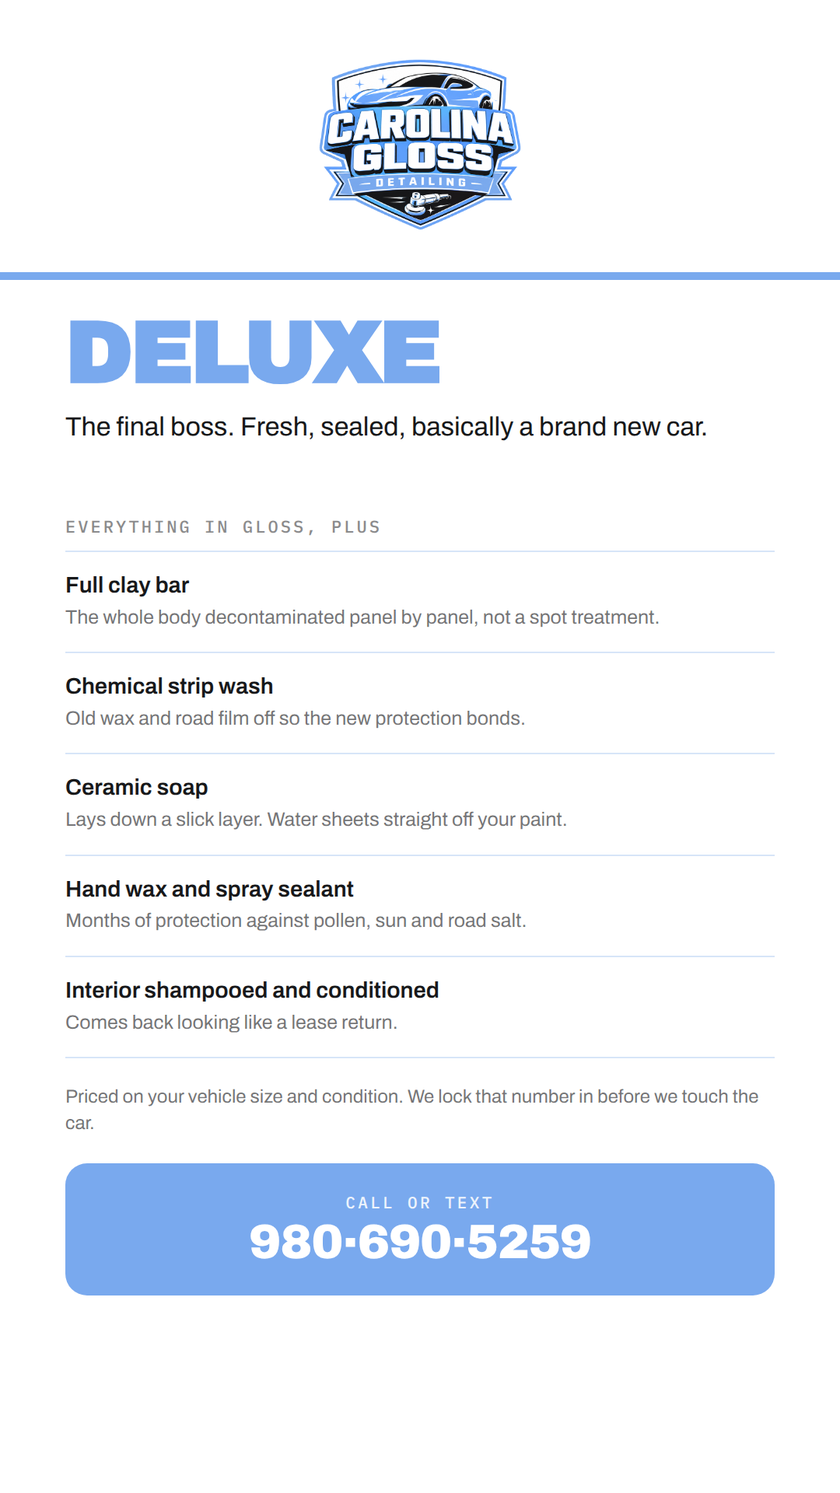
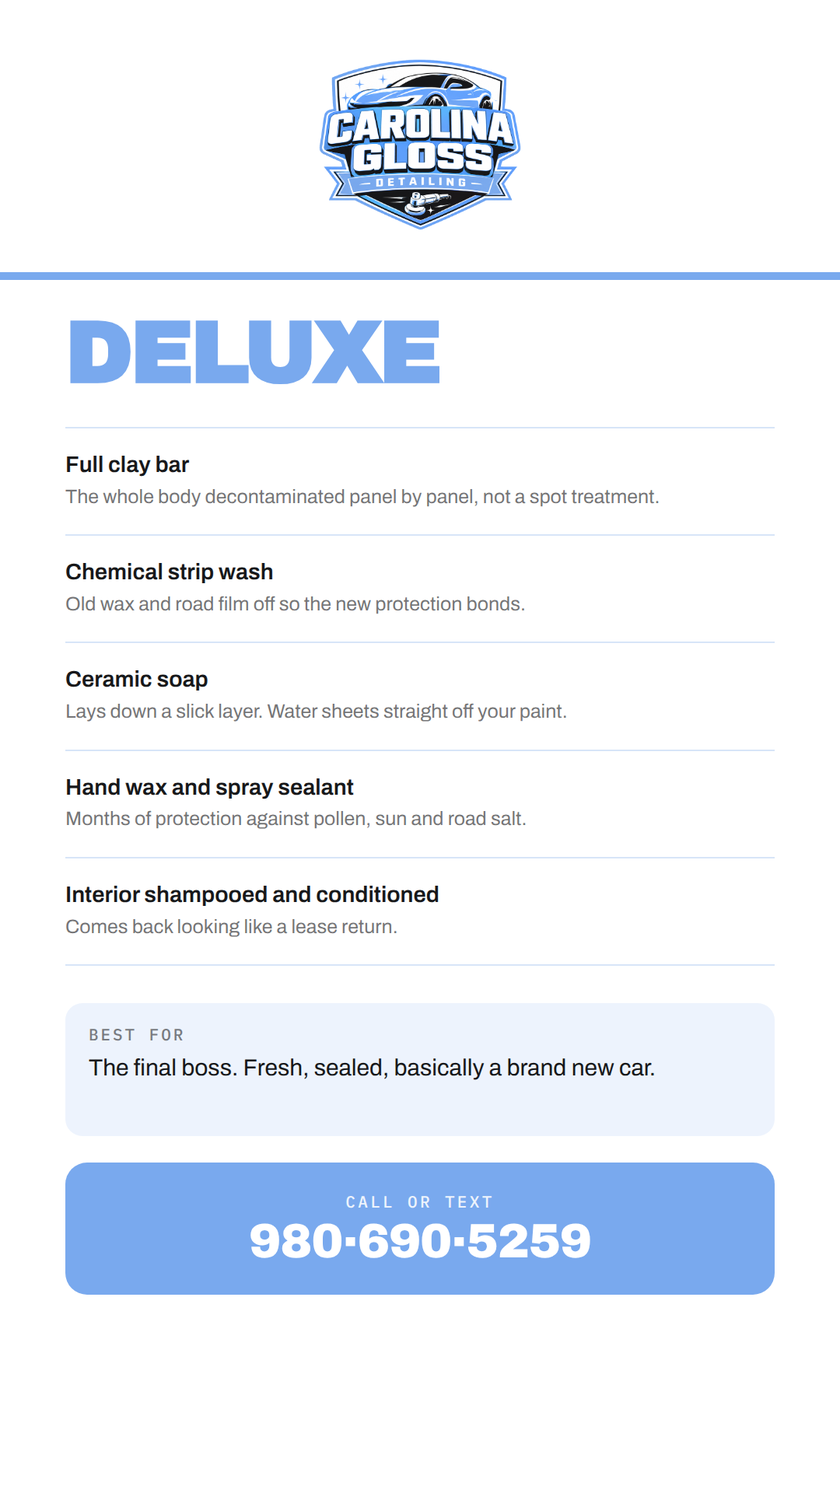
Strip the package frames back to name, list, card, call
Reverts moving the hook line to the top: it goes back in the tinted Best For
card below the rows, where it was working. The description line and the tier
ladder header come off with it, and the pricing line goes too.

Each frame is now the package name straight into the five rows, the card, and
the phone number. Row padding and the gaps opened up to absorb the space the
three dropped blocks left behind, and the card reserves two lines so Gloss
still lines up with the other two.

Claude-Session: https://claude.ai/code/session_016b3V5EjCTmSZMCSHy3XdSF

diff --git a/design/story-highlights/Story Highlights - Services.dc.html b/design/story-highlights/Story Highlights - Services.dc.html
@@ -31,10 +31,11 @@
       <div style="flex:0 0 auto;height:10px;background:#79A9EE;"></div>
       <div style="flex:1 1 auto;padding:44px 84px 0;box-sizing:border-box;display:flex;flex-direction:column;">
         <h1 style="margin:0;font-family:'Archivo Black',Helvetica,sans-serif;font-size:112px;line-height:0.9;letter-spacing:-0.03em;color:#79A9EE;text-transform:uppercase;">Standard</h1>
-        <p style="margin:22px 0 0;font:400 34px/1.34 'Archivo',sans-serif;color:#17181A;min-height:92px;text-wrap:pretty;">Your everyday fresh. Start the day in a clean car.</p>
-        <div style="margin-top:44px;font:500 22px 'IBM Plex Mono',monospace;letter-spacing:0.14em;color:#17181A;opacity:0.5;">WHAT YOU GET</div>
-        <div style="margin-top:16px;"><div style="padding:27px 0;border-top:2px solid #D7E5F8;"><div style="font:600 29px/1.2 'Archivo',sans-serif;color:#17181A;">Hand wash, top to bottom</div><div style="margin-top:6px;font:400 25px/1.34 'Archivo',sans-serif;color:rgba(23,24,26,0.62);">Two mitts and clean water. No brushes, no swirl marks.</div></div><div style="padding:27px 0;border-top:2px solid #D7E5F8;"><div style="font:600 29px/1.2 'Archivo',sans-serif;color:#17181A;">Wheels, tires and trim</div><div style="margin-top:6px;font:400 25px/1.34 'Archivo',sans-serif;color:rgba(23,24,26,0.62);">Brake dust out of the barrels, trim back to black.</div></div><div style="padding:27px 0;border-top:2px solid #D7E5F8;"><div style="font:600 29px/1.2 'Archivo',sans-serif;color:#17181A;">Full interior vacuum</div><div style="margin-top:6px;font:400 25px/1.34 'Archivo',sans-serif;color:rgba(23,24,26,0.62);">Seats, rails, under the mats, and the trunk.</div></div><div style="padding:27px 0;border-top:2px solid #D7E5F8;"><div style="font:600 29px/1.2 'Archivo',sans-serif;color:#17181A;">Glass, inside and out</div><div style="margin-top:6px;font:400 25px/1.34 'Archivo',sans-serif;color:rgba(23,24,26,0.62);">Streak free on both sides. You notice it driving at night.</div></div><div style="padding:27px 0;border-top:2px solid #D7E5F8;border-bottom:2px solid #D7E5F8;"><div style="font:600 29px/1.2 'Archivo',sans-serif;color:#17181A;">Vinyl sanitized, leather refreshed</div><div style="margin-top:6px;font:400 25px/1.34 'Archivo',sans-serif;color:rgba(23,24,26,0.62);">Dash, doors, console and every vent wiped down.</div></div></div>
-        <p style="margin:34px 0 0;font:400 24px/1.4 'Archivo',sans-serif;color:rgba(23,24,26,0.62);text-wrap:pretty;">Priced on your vehicle size and condition. We lock that number in before we touch the car.</p>
+        <div style="margin-top:44px;"><div style="padding:31px 0;border-top:2px solid #D7E5F8;"><div style="font:600 29px/1.2 'Archivo',sans-serif;color:#17181A;">Hand wash, top to bottom</div><div style="margin-top:6px;font:400 25px/1.34 'Archivo',sans-serif;color:rgba(23,24,26,0.62);">Two mitts and clean water. No brushes, no swirl marks.</div></div><div style="padding:31px 0;border-top:2px solid #D7E5F8;"><div style="font:600 29px/1.2 'Archivo',sans-serif;color:#17181A;">Wheels, tires and trim</div><div style="margin-top:6px;font:400 25px/1.34 'Archivo',sans-serif;color:rgba(23,24,26,0.62);">Brake dust out of the barrels, trim back to black.</div></div><div style="padding:31px 0;border-top:2px solid #D7E5F8;"><div style="font:600 29px/1.2 'Archivo',sans-serif;color:#17181A;">Full interior vacuum</div><div style="margin-top:6px;font:400 25px/1.34 'Archivo',sans-serif;color:rgba(23,24,26,0.62);">Seats, rails, under the mats, and the trunk.</div></div><div style="padding:31px 0;border-top:2px solid #D7E5F8;"><div style="font:600 29px/1.2 'Archivo',sans-serif;color:#17181A;">Glass, inside and out</div><div style="margin-top:6px;font:400 25px/1.34 'Archivo',sans-serif;color:rgba(23,24,26,0.62);">Streak free on both sides. You notice it driving at night.</div></div><div style="padding:31px 0;border-top:2px solid #D7E5F8;border-bottom:2px solid #D7E5F8;"><div style="font:600 29px/1.2 'Archivo',sans-serif;color:#17181A;">Vinyl sanitized, leather refreshed</div><div style="margin-top:6px;font:400 25px/1.34 'Archivo',sans-serif;color:rgba(23,24,26,0.62);">Dash, doors, console and every vent wiped down.</div></div></div>
+        <div style="margin-top:48px;background:#EDF3FD;border-radius:22px;padding:26px 30px;min-height:171px;box-sizing:border-box;">
+          <div style="font:500 21px 'IBM Plex Mono',monospace;letter-spacing:0.14em;color:#17181A;opacity:0.55;">BEST FOR</div>
+          <div style="margin-top:10px;font:400 30px/1.34 'Archivo',sans-serif;color:#17181A;text-wrap:pretty;">Your everyday fresh. Start the day in a clean car.</div>
+        </div>
         <div style="margin-top:34px;background:#79A9EE;border-radius:28px;padding:36px 28px;display:flex;flex-direction:column;align-items:center;text-align:center;">
           <div style="font:500 21px 'IBM Plex Mono',monospace;letter-spacing:0.16em;color:#FFFFFF;opacity:0.88;">CALL OR TEXT</div>
           <div style="margin-top:8px;font-family:'Archivo Black',Helvetica,sans-serif;font-size:62px;line-height:1;letter-spacing:-0.02em;color:#FFFFFF;white-space:nowrap;">980·690·5259</div>
@@ -54,10 +55,11 @@
       <div style="flex:0 0 auto;height:10px;background:#79A9EE;"></div>
       <div style="flex:1 1 auto;padding:44px 84px 0;box-sizing:border-box;display:flex;flex-direction:column;">
         <h1 style="margin:0;font-family:'Archivo Black',Helvetica,sans-serif;font-size:112px;line-height:0.9;letter-spacing:-0.03em;color:#79A9EE;text-transform:uppercase;">Gloss</h1>
-        <p style="margin:22px 0 0;font:400 34px/1.34 'Archivo',sans-serif;color:#17181A;min-height:92px;text-wrap:pretty;">The one everybody’s actually looking for. A full in and out makeover.</p>
-        <div style="margin-top:44px;font:500 22px 'IBM Plex Mono',monospace;letter-spacing:0.14em;color:#17181A;opacity:0.5;">EVERYTHING IN STANDARD, PLUS</div>
-        <div style="margin-top:16px;"><div style="padding:27px 0;border-top:2px solid #D7E5F8;"><div style="font:600 29px/1.2 'Archivo',sans-serif;color:#17181A;">Light clay bar</div><div style="margin-top:6px;font:400 25px/1.34 'Archivo',sans-serif;color:rgba(23,24,26,0.62);">Pulls the grit washing cannot reach. Run your hand over the hood after.</div></div><div style="padding:27px 0;border-top:2px solid #D7E5F8;"><div style="font:600 29px/1.2 'Archivo',sans-serif;color:#17181A;">Hot water extraction</div><div style="margin-top:6px;font:400 25px/1.34 'Archivo',sans-serif;color:rgba(23,24,26,0.62);">Coffee, dog, kids, gym bag. Gone, not covered up.</div></div><div style="padding:27px 0;border-top:2px solid #D7E5F8;"><div style="font:600 29px/1.2 'Archivo',sans-serif;color:#17181A;">Two bucket wash</div><div style="margin-top:6px;font:400 25px/1.34 'Archivo',sans-serif;color:rgba(23,24,26,0.62);">Dirt goes in its own bucket, never back onto your paint.</div></div><div style="padding:27px 0;border-top:2px solid #D7E5F8;"><div style="font:600 29px/1.2 'Archivo',sans-serif;color:#17181A;">Leather and vinyl conditioned</div><div style="margin-top:6px;font:400 25px/1.34 'Archivo',sans-serif;color:rgba(23,24,26,0.62);">So it stops drying out and cracking in the Carolina sun.</div></div><div style="padding:27px 0;border-top:2px solid #D7E5F8;border-bottom:2px solid #D7E5F8;"><div style="font:600 29px/1.2 'Archivo',sans-serif;color:#17181A;">Wheels and tires, second pass</div><div style="margin-top:6px;font:400 25px/1.34 'Archivo',sans-serif;color:rgba(23,24,26,0.62);">Faces, barrels and lug seats done properly, then dressed.</div></div></div>
-        <p style="margin:34px 0 0;font:400 24px/1.4 'Archivo',sans-serif;color:rgba(23,24,26,0.62);text-wrap:pretty;">Priced on your vehicle size and condition. We lock that number in before we touch the car.</p>
+        <div style="margin-top:44px;"><div style="padding:31px 0;border-top:2px solid #D7E5F8;"><div style="font:600 29px/1.2 'Archivo',sans-serif;color:#17181A;">Light clay bar</div><div style="margin-top:6px;font:400 25px/1.34 'Archivo',sans-serif;color:rgba(23,24,26,0.62);">Pulls the grit washing cannot reach. Run your hand over the hood after.</div></div><div style="padding:31px 0;border-top:2px solid #D7E5F8;"><div style="font:600 29px/1.2 'Archivo',sans-serif;color:#17181A;">Hot water extraction</div><div style="margin-top:6px;font:400 25px/1.34 'Archivo',sans-serif;color:rgba(23,24,26,0.62);">Coffee, dog, kids, gym bag. Gone, not covered up.</div></div><div style="padding:31px 0;border-top:2px solid #D7E5F8;"><div style="font:600 29px/1.2 'Archivo',sans-serif;color:#17181A;">Two bucket wash</div><div style="margin-top:6px;font:400 25px/1.34 'Archivo',sans-serif;color:rgba(23,24,26,0.62);">Dirt goes in its own bucket, never back onto your paint.</div></div><div style="padding:31px 0;border-top:2px solid #D7E5F8;"><div style="font:600 29px/1.2 'Archivo',sans-serif;color:#17181A;">Leather and vinyl conditioned</div><div style="margin-top:6px;font:400 25px/1.34 'Archivo',sans-serif;color:rgba(23,24,26,0.62);">So it stops drying out and cracking in the Carolina sun.</div></div><div style="padding:31px 0;border-top:2px solid #D7E5F8;border-bottom:2px solid #D7E5F8;"><div style="font:600 29px/1.2 'Archivo',sans-serif;color:#17181A;">Wheels and tires, second pass</div><div style="margin-top:6px;font:400 25px/1.34 'Archivo',sans-serif;color:rgba(23,24,26,0.62);">Faces, barrels and lug seats done properly, then dressed.</div></div></div>
+        <div style="margin-top:48px;background:#EDF3FD;border-radius:22px;padding:26px 30px;min-height:171px;box-sizing:border-box;">
+          <div style="font:500 21px 'IBM Plex Mono',monospace;letter-spacing:0.14em;color:#17181A;opacity:0.55;">BEST FOR</div>
+          <div style="margin-top:10px;font:400 30px/1.34 'Archivo',sans-serif;color:#17181A;text-wrap:pretty;">The one everybody’s actually looking for. A full in and out makeover.</div>
+        </div>
         <div style="margin-top:34px;background:#79A9EE;border-radius:28px;padding:36px 28px;display:flex;flex-direction:column;align-items:center;text-align:center;">
           <div style="font:500 21px 'IBM Plex Mono',monospace;letter-spacing:0.16em;color:#FFFFFF;opacity:0.88;">CALL OR TEXT</div>
           <div style="margin-top:8px;font-family:'Archivo Black',Helvetica,sans-serif;font-size:62px;line-height:1;letter-spacing:-0.02em;color:#FFFFFF;white-space:nowrap;">980·690·5259</div>
@@ -77,10 +79,11 @@
       <div style="flex:0 0 auto;height:10px;background:#79A9EE;"></div>
       <div style="flex:1 1 auto;padding:44px 84px 0;box-sizing:border-box;display:flex;flex-direction:column;">
         <h1 style="margin:0;font-family:'Archivo Black',Helvetica,sans-serif;font-size:112px;line-height:0.9;letter-spacing:-0.03em;color:#79A9EE;text-transform:uppercase;">Deluxe</h1>
-        <p style="margin:22px 0 0;font:400 34px/1.34 'Archivo',sans-serif;color:#17181A;min-height:92px;text-wrap:pretty;">The final boss. Fresh, sealed, basically a brand new car.</p>
-        <div style="margin-top:44px;font:500 22px 'IBM Plex Mono',monospace;letter-spacing:0.14em;color:#17181A;opacity:0.5;">EVERYTHING IN GLOSS, PLUS</div>
-        <div style="margin-top:16px;"><div style="padding:27px 0;border-top:2px solid #D7E5F8;"><div style="font:600 29px/1.2 'Archivo',sans-serif;color:#17181A;">Full clay bar</div><div style="margin-top:6px;font:400 25px/1.34 'Archivo',sans-serif;color:rgba(23,24,26,0.62);">The whole body decontaminated panel by panel, not a spot treatment.</div></div><div style="padding:27px 0;border-top:2px solid #D7E5F8;"><div style="font:600 29px/1.2 'Archivo',sans-serif;color:#17181A;">Chemical strip wash</div><div style="margin-top:6px;font:400 25px/1.34 'Archivo',sans-serif;color:rgba(23,24,26,0.62);">Old wax and road film off so the new protection bonds.</div></div><div style="padding:27px 0;border-top:2px solid #D7E5F8;"><div style="font:600 29px/1.2 'Archivo',sans-serif;color:#17181A;">Ceramic soap</div><div style="margin-top:6px;font:400 25px/1.34 'Archivo',sans-serif;color:rgba(23,24,26,0.62);">Lays down a slick layer. Water sheets straight off your paint.</div></div><div style="padding:27px 0;border-top:2px solid #D7E5F8;"><div style="font:600 29px/1.2 'Archivo',sans-serif;color:#17181A;">Hand wax and spray sealant</div><div style="margin-top:6px;font:400 25px/1.34 'Archivo',sans-serif;color:rgba(23,24,26,0.62);">Months of protection against pollen, sun and road salt.</div></div><div style="padding:27px 0;border-top:2px solid #D7E5F8;border-bottom:2px solid #D7E5F8;"><div style="font:600 29px/1.2 'Archivo',sans-serif;color:#17181A;">Interior shampooed and conditioned</div><div style="margin-top:6px;font:400 25px/1.34 'Archivo',sans-serif;color:rgba(23,24,26,0.62);">Comes back looking like a lease return.</div></div></div>
-        <p style="margin:34px 0 0;font:400 24px/1.4 'Archivo',sans-serif;color:rgba(23,24,26,0.62);text-wrap:pretty;">Priced on your vehicle size and condition. We lock that number in before we touch the car.</p>
+        <div style="margin-top:44px;"><div style="padding:31px 0;border-top:2px solid #D7E5F8;"><div style="font:600 29px/1.2 'Archivo',sans-serif;color:#17181A;">Full clay bar</div><div style="margin-top:6px;font:400 25px/1.34 'Archivo',sans-serif;color:rgba(23,24,26,0.62);">The whole body decontaminated panel by panel, not a spot treatment.</div></div><div style="padding:31px 0;border-top:2px solid #D7E5F8;"><div style="font:600 29px/1.2 'Archivo',sans-serif;color:#17181A;">Chemical strip wash</div><div style="margin-top:6px;font:400 25px/1.34 'Archivo',sans-serif;color:rgba(23,24,26,0.62);">Old wax and road film off so the new protection bonds.</div></div><div style="padding:31px 0;border-top:2px solid #D7E5F8;"><div style="font:600 29px/1.2 'Archivo',sans-serif;color:#17181A;">Ceramic soap</div><div style="margin-top:6px;font:400 25px/1.34 'Archivo',sans-serif;color:rgba(23,24,26,0.62);">Lays down a slick layer. Water sheets straight off your paint.</div></div><div style="padding:31px 0;border-top:2px solid #D7E5F8;"><div style="font:600 29px/1.2 'Archivo',sans-serif;color:#17181A;">Hand wax and spray sealant</div><div style="margin-top:6px;font:400 25px/1.34 'Archivo',sans-serif;color:rgba(23,24,26,0.62);">Months of protection against pollen, sun and road salt.</div></div><div style="padding:31px 0;border-top:2px solid #D7E5F8;border-bottom:2px solid #D7E5F8;"><div style="font:600 29px/1.2 'Archivo',sans-serif;color:#17181A;">Interior shampooed and conditioned</div><div style="margin-top:6px;font:400 25px/1.34 'Archivo',sans-serif;color:rgba(23,24,26,0.62);">Comes back looking like a lease return.</div></div></div>
+        <div style="margin-top:48px;background:#EDF3FD;border-radius:22px;padding:26px 30px;min-height:171px;box-sizing:border-box;">
+          <div style="font:500 21px 'IBM Plex Mono',monospace;letter-spacing:0.14em;color:#17181A;opacity:0.55;">BEST FOR</div>
+          <div style="margin-top:10px;font:400 30px/1.34 'Archivo',sans-serif;color:#17181A;text-wrap:pretty;">The final boss. Fresh, sealed, basically a brand new car.</div>
+        </div>
         <div style="margin-top:34px;background:#79A9EE;border-radius:28px;padding:36px 28px;display:flex;flex-direction:column;align-items:center;text-align:center;">
           <div style="font:500 21px 'IBM Plex Mono',monospace;letter-spacing:0.16em;color:#FFFFFF;opacity:0.88;">CALL OR TEXT</div>
           <div style="margin-top:8px;font-family:'Archivo Black',Helvetica,sans-serif;font-size:62px;line-height:1;letter-spacing:-0.02em;color:#FFFFFF;white-space:nowrap;">980·690·5259</div>

diff --git a/design/story-highlights/build.py b/design/story-highlights/build.py
@@ -25,38 +25,29 @@ MUTED = "rgba(23,24,26,0.62)"   # the same black, stepped back
 BLUE_DEEP = "#4F86D9"    # a darker tone of BLUE, only to give the rosette depth
 
 PHONE = "980\u00b7690\u00b75259"
-CITIES = "CHARLOTTE \u00b7 GREENSBORO \u00b7 SHELBY"
-PRICE_LINE = ("Priced on your vehicle size and condition. "
-              "We lock that number in before we touch the car.")
 
 PACKAGES = [
     dict(slug="01-standard", title="Standard", popular=False,
-         sub="Your everyday fresh. Start the day in a clean car.",
-         plus="WHAT YOU GET",
+         best="Your everyday fresh. Start the day in a clean car.",
          rows=[("Hand wash, top to bottom", "Two mitts and clean water. No brushes, no swirl marks."),
                ("Wheels, tires and trim", "Brake dust out of the barrels, trim back to black."),
                ("Full interior vacuum", "Seats, rails, under the mats, and the trunk."),
                ("Glass, inside and out", "Streak free on both sides. You notice it driving at night."),
-               ("Vinyl sanitized, leather refreshed", "Dash, doors, console and every vent wiped down.")],
-         best="A car that gets cleaned regularly and just needs bringing back."),
+               ("Vinyl sanitized, leather refreshed", "Dash, doors, console and every vent wiped down.")]),
     dict(slug="02-gloss", title="Gloss", popular=True,
-         sub="The one everybody\u2019s actually looking for. A full in and out makeover.",
-         plus="EVERYTHING IN STANDARD, PLUS",
+         best="The one everybody\u2019s actually looking for. A full in and out makeover.",
          rows=[("Light clay bar", "Pulls the grit washing cannot reach. Run your hand over the hood after."),
                ("Hot water extraction", "Coffee, dog, kids, gym bag. Gone, not covered up."),
                ("Two bucket wash", "Dirt goes in its own bucket, never back onto your paint."),
                ("Leather and vinyl conditioned", "So it stops drying out and cracking in the Carolina sun."),
-               ("Wheels and tires, second pass", "Faces, barrels and lug seats done properly, then dressed.")],
-         best="Most people, and anyone whose car has not been detailed in a while."),
+               ("Wheels and tires, second pass", "Faces, barrels and lug seats done properly, then dressed.")]),
     dict(slug="03-deluxe", title="Deluxe", popular=False,
-         sub="The final boss. Fresh, sealed, basically a brand new car.",
-         plus="EVERYTHING IN GLOSS, PLUS",
+         best="The final boss. Fresh, sealed, basically a brand new car.",
          rows=[("Full clay bar", "The whole body decontaminated panel by panel, not a spot treatment."),
                ("Chemical strip wash", "Old wax and road film off so the new protection bonds."),
                ("Ceramic soap", "Lays down a slick layer. Water sheets straight off your paint."),
                ("Hand wax and spray sealant", "Months of protection against pollen, sun and road salt."),
-               ("Interior shampooed and conditioned", "Comes back looking like a lease return.")],
-         best="Selling it, gifting it, or you just love the thing."),
+               ("Interior shampooed and conditioned", "Comes back looking like a lease return.")]),
 ]
 
 
@@ -89,7 +80,7 @@ def font_faces():
 def row_html(title, desc, last):
     edge = "border-bottom:2px solid %s;" % RULE if last else ""
     return (
-        '<div style="padding:27px 0;border-top:2px solid {rule};{edge}">'
+        '<div style="padding:31px 0;border-top:2px solid {rule};{edge}">'
         '<div style="font:600 29px/1.2 Archivo,sans-serif;color:{ink};">{t}</div>'
         '<div style="margin-top:6px;font:400 25px/1.34 Archivo,sans-serif;color:{muted};">{d}</div>'
         '</div>'
@@ -117,11 +108,12 @@ body{{width:1080px;height:1920px;overflow:hidden;background:#fff;
 .body{{flex:1 1 auto;padding:44px 84px 0;display:flex;flex-direction:column;}}
 h1{{margin:0;font-family:'Archivo Black',Helvetica,sans-serif;font-size:112px;
  line-height:0.9;letter-spacing:-0.03em;color:{blue};text-transform:uppercase;}}
-.sub{{margin:22px 0 0;font:400 34px/1.34 Archivo,sans-serif;color:{ink};min-height:92px;}}
-.plus{{margin-top:44px;font:500 22px 'IBM Plex Mono',monospace;letter-spacing:0.14em;
- color:{ink};opacity:0.5;}}
-.rows{{margin-top:16px;}}
-.price{{margin:34px 0 0;font:400 24px/1.4 Archivo,sans-serif;color:{muted};}}
+.rows{{margin-top:44px;}}
+.best{{margin-top:48px;background:{tint};border-radius:22px;padding:26px 30px;
+ min-height:171px;box-sizing:border-box;}}
+.best .lbl{{font:500 21px 'IBM Plex Mono',monospace;letter-spacing:0.14em;color:{ink};
+ opacity:0.55;}}
+.best .txt{{margin-top:10px;font:400 30px/1.34 Archivo,sans-serif;color:{ink};}}
 .cta{{margin-top:34px;background:{blue};border-radius:28px;padding:36px 28px;
  display:flex;flex-direction:column;align-items:center;text-align:center;}}
 .cta .lbl{{font:500 21px 'IBM Plex Mono',monospace;letter-spacing:0.16em;
@@ -133,16 +125,13 @@ h1{{margin:0;font-family:'Archivo Black',Helvetica,sans-serif;font-size:112px;
 <div class="bar"></div>
 <div class="body">
 <h1>{title}</h1>
-<p class="sub">{sub}</p>
-<div class="plus">{plus}</div>
 <div class="rows">{rows}</div>
-<p class="price">{price}</p>
+<div class="best"><div class="lbl">BEST FOR</div><div class="txt">{best}</div></div>
 <div class="cta"><div class="lbl">CALL OR TEXT</div><div class="num">{phone}</div></div>
 </div></div></body></html>""".format(
         faces=faces, ink=INK, blue=BLUE, tint=TINT, muted=MUTED,
         logo=logo_uri, ribbon=ribbon,
-        title=pkg["title"], sub=pkg["sub"], plus=pkg["plus"], rows=rows,
-        price=PRICE_LINE, phone=PHONE)
+        title=pkg["title"], rows=rows, best=pkg["best"], phone=PHONE)
 
 
 def main():
@@ -203,7 +192,7 @@ def canvas_section(pkg, idx):
     for i, (t, d) in enumerate(pkg["rows"]):
         edge = "border-bottom:2px solid %s;" % RULE if i == len(pkg["rows"]) - 1 else ""
         rows.append(
-            '<div style="padding:27px 0;border-top:2px solid %s;%s">'
+            '<div style="padding:31px 0;border-top:2px solid %s;%s">'
             '<div style="font:600 29px/1.2 \'Archivo\',sans-serif;color:%s;">%s</div>'
             '<div style="margin-top:6px;font:400 25px/1.34 \'Archivo\',sans-serif;color:%s;">%s</div>'
             '</div>' % (RULE, edge, INK, t, MUTED, d))
@@ -219,10 +208,11 @@ def canvas_section(pkg, idx):
       <div style="flex:0 0 auto;height:10px;background:{blue};"></div>
       <div style="flex:1 1 auto;padding:44px 84px 0;box-sizing:border-box;display:flex;flex-direction:column;">
         <h1 style="margin:0;font-family:'Archivo Black',Helvetica,sans-serif;font-size:112px;line-height:0.9;letter-spacing:-0.03em;color:{blue};text-transform:uppercase;">{title}</h1>
-        <p style="margin:22px 0 0;font:400 34px/1.34 'Archivo',sans-serif;color:{ink};min-height:92px;text-wrap:pretty;">{sub}</p>
-        <div style="margin-top:44px;font:500 22px 'IBM Plex Mono',monospace;letter-spacing:0.14em;color:{ink};opacity:0.5;">{plus}</div>
-        <div style="margin-top:16px;">{rows}</div>
-        <p style="margin:34px 0 0;font:400 24px/1.4 'Archivo',sans-serif;color:{muted};text-wrap:pretty;">{price}</p>
+        <div style="margin-top:44px;">{rows}</div>
+        <div style="margin-top:48px;background:{tint};border-radius:22px;padding:26px 30px;min-height:171px;box-sizing:border-box;">
+          <div style="font:500 21px 'IBM Plex Mono',monospace;letter-spacing:0.14em;color:{ink};opacity:0.55;">BEST FOR</div>
+          <div style="margin-top:10px;font:400 30px/1.34 'Archivo',sans-serif;color:{ink};text-wrap:pretty;">{best}</div>
+        </div>
         <div style="margin-top:34px;background:{blue};border-radius:28px;padding:36px 28px;display:flex;flex-direction:column;align-items:center;text-align:center;">
           <div style="font:500 21px 'IBM Plex Mono',monospace;letter-spacing:0.16em;color:#FFFFFF;opacity:0.88;">CALL OR TEXT</div>
           <div style="margin-top:8px;font-family:'Archivo Black',Helvetica,sans-serif;font-size:62px;line-height:1;letter-spacing:-0.02em;color:#FFFFFF;white-space:nowrap;">{phone}</div>
@@ -232,8 +222,8 @@ def canvas_section(pkg, idx):
   </div>
 """.format(label=pkg["slug"].replace("-", " ").title(), ink=INK, blue=BLUE,
            tint=TINT, muted=MUTED,
-           ribbon=ribbon, title=pkg["title"], sub=pkg["sub"], plus=pkg["plus"],
-           rows="".join(rows), price=PRICE_LINE, phone=PHONE)
+           ribbon=ribbon, title=pkg["title"], rows="".join(rows),
+           best=pkg["best"], phone=PHONE)
 
 
 CANVAS_PROPS = ('{&quot;showLabels&quot;:{&quot;editor&quot;:&quot;boolean&quot;,&quot;default&quot;:true,'

diff --git a/design/story-highlights/COPY.md b/design/story-highlights/COPY.md
@@ -9,15 +9,13 @@ Rendered files live in `out/`. Rebuild with `python3 build.py`
 ## Shared on all three
 
 - Header: crest logo on white, Carolina blue bar. Service area lives in its own highlight, not here
-- Price-lock line
-- CTA: `CALL OR TEXT` + `980·690·5259`. No hours and no website, so nothing on the image goes stale
+- Best-for card, then the CTA: `CALL OR TEXT` + `980·690·5259`. No hours, website or prices, so nothing on the image goes stale
 - Price line: "Priced on your vehicle size and condition. We lock that number in before we touch the car."
 
 ## STANDARD
 
-Your everyday fresh. Start the day in a clean car.
+**Best for** Your everyday fresh. Start the day in a clean car.
 
-`WHAT YOU GET`
 
 | Item | Payoff |
 |---|---|
@@ -30,9 +28,8 @@ Your everyday fresh. Start the day in a clean car.
 
 ## GLOSS  (carries the #1 rosette)
 
-The one everybody’s actually looking for. A full in and out makeover.
+**Best for** The one everybody’s actually looking for. A full in and out makeover.
 
-`EVERYTHING IN STANDARD, PLUS`
 
 | Item | Payoff |
 |---|---|
@@ -45,9 +42,8 @@ The one everybody’s actually looking for. A full in and out makeover.
 
 ## DELUXE
 
-The final boss. Fresh, sealed, basically a brand new car.
+**Best for** The final boss. Fresh, sealed, basically a brand new car.
 
-`EVERYTHING IN GLOSS, PLUS`
 
 | Item | Payoff |
 |---|---|
